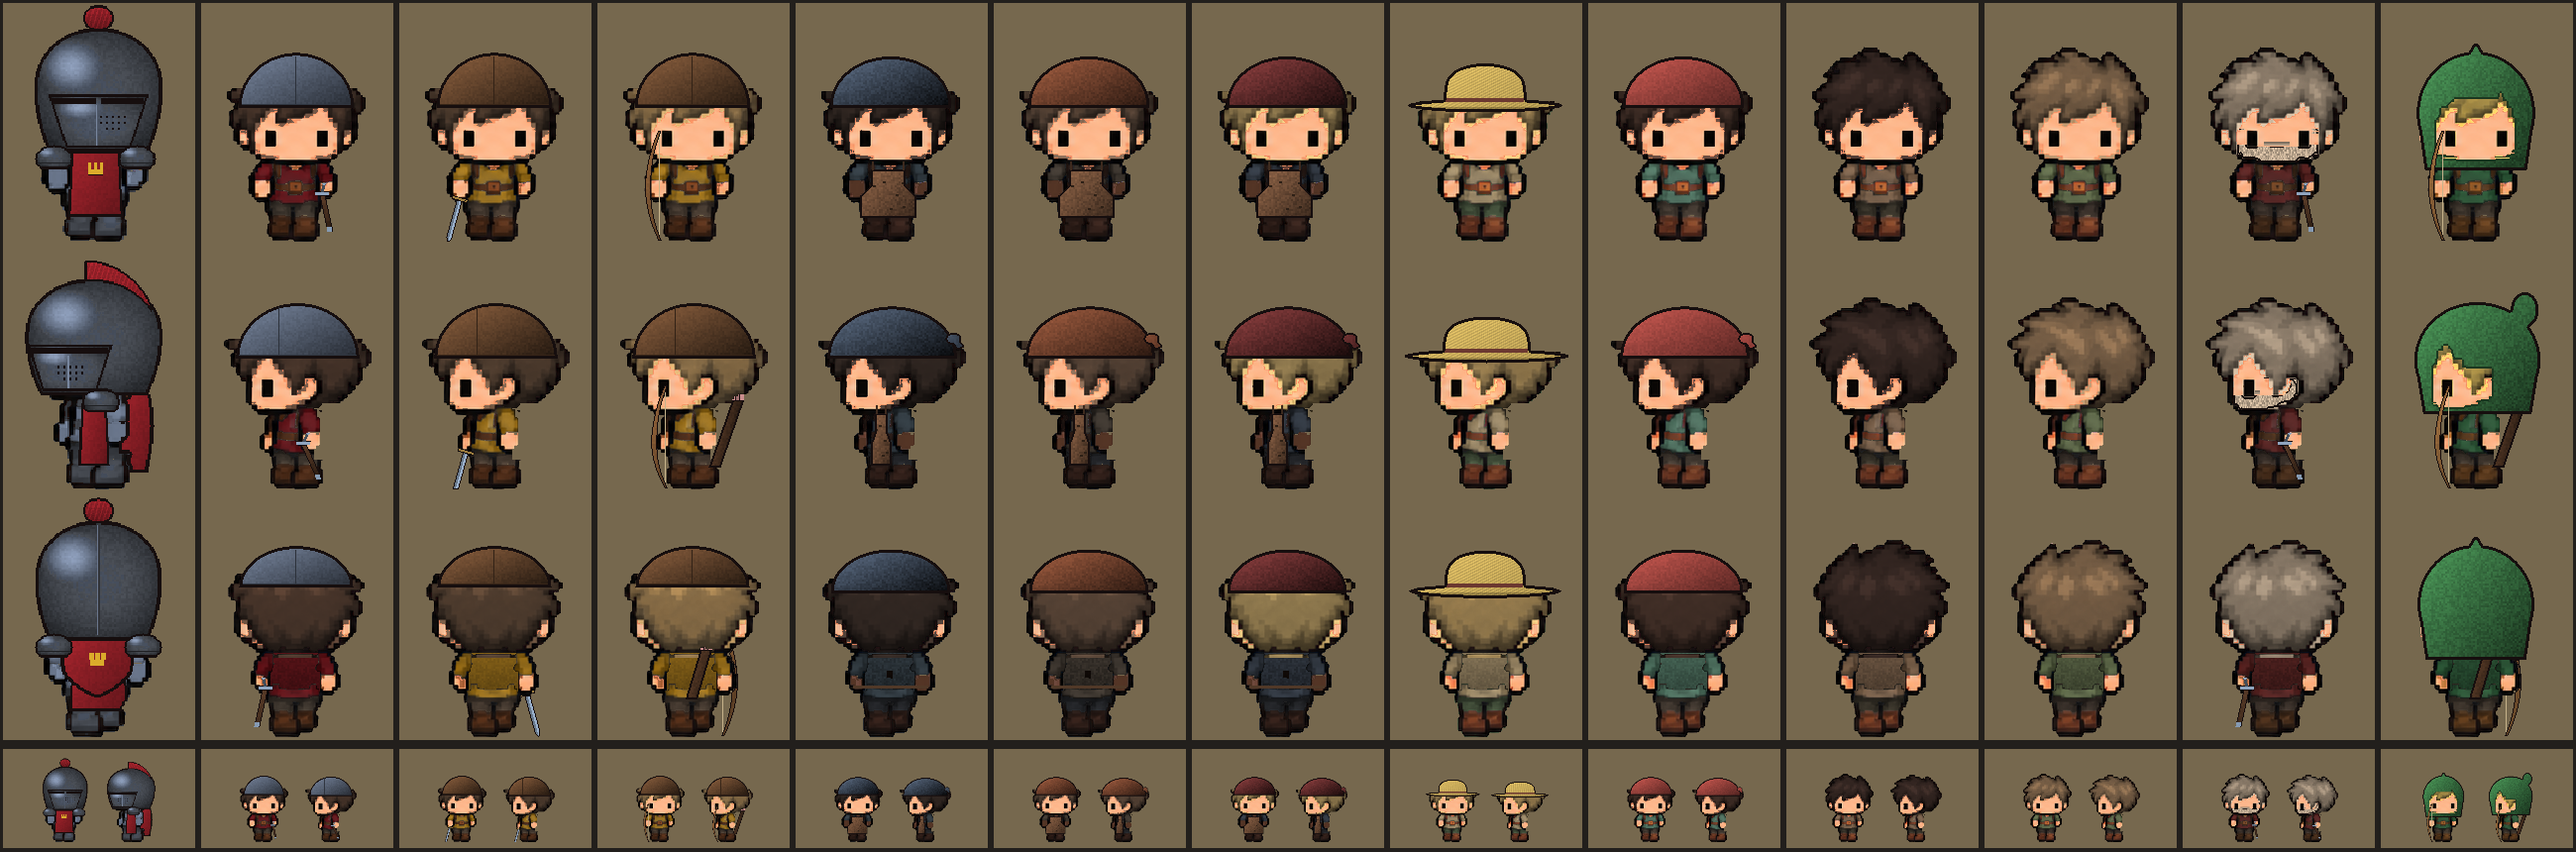
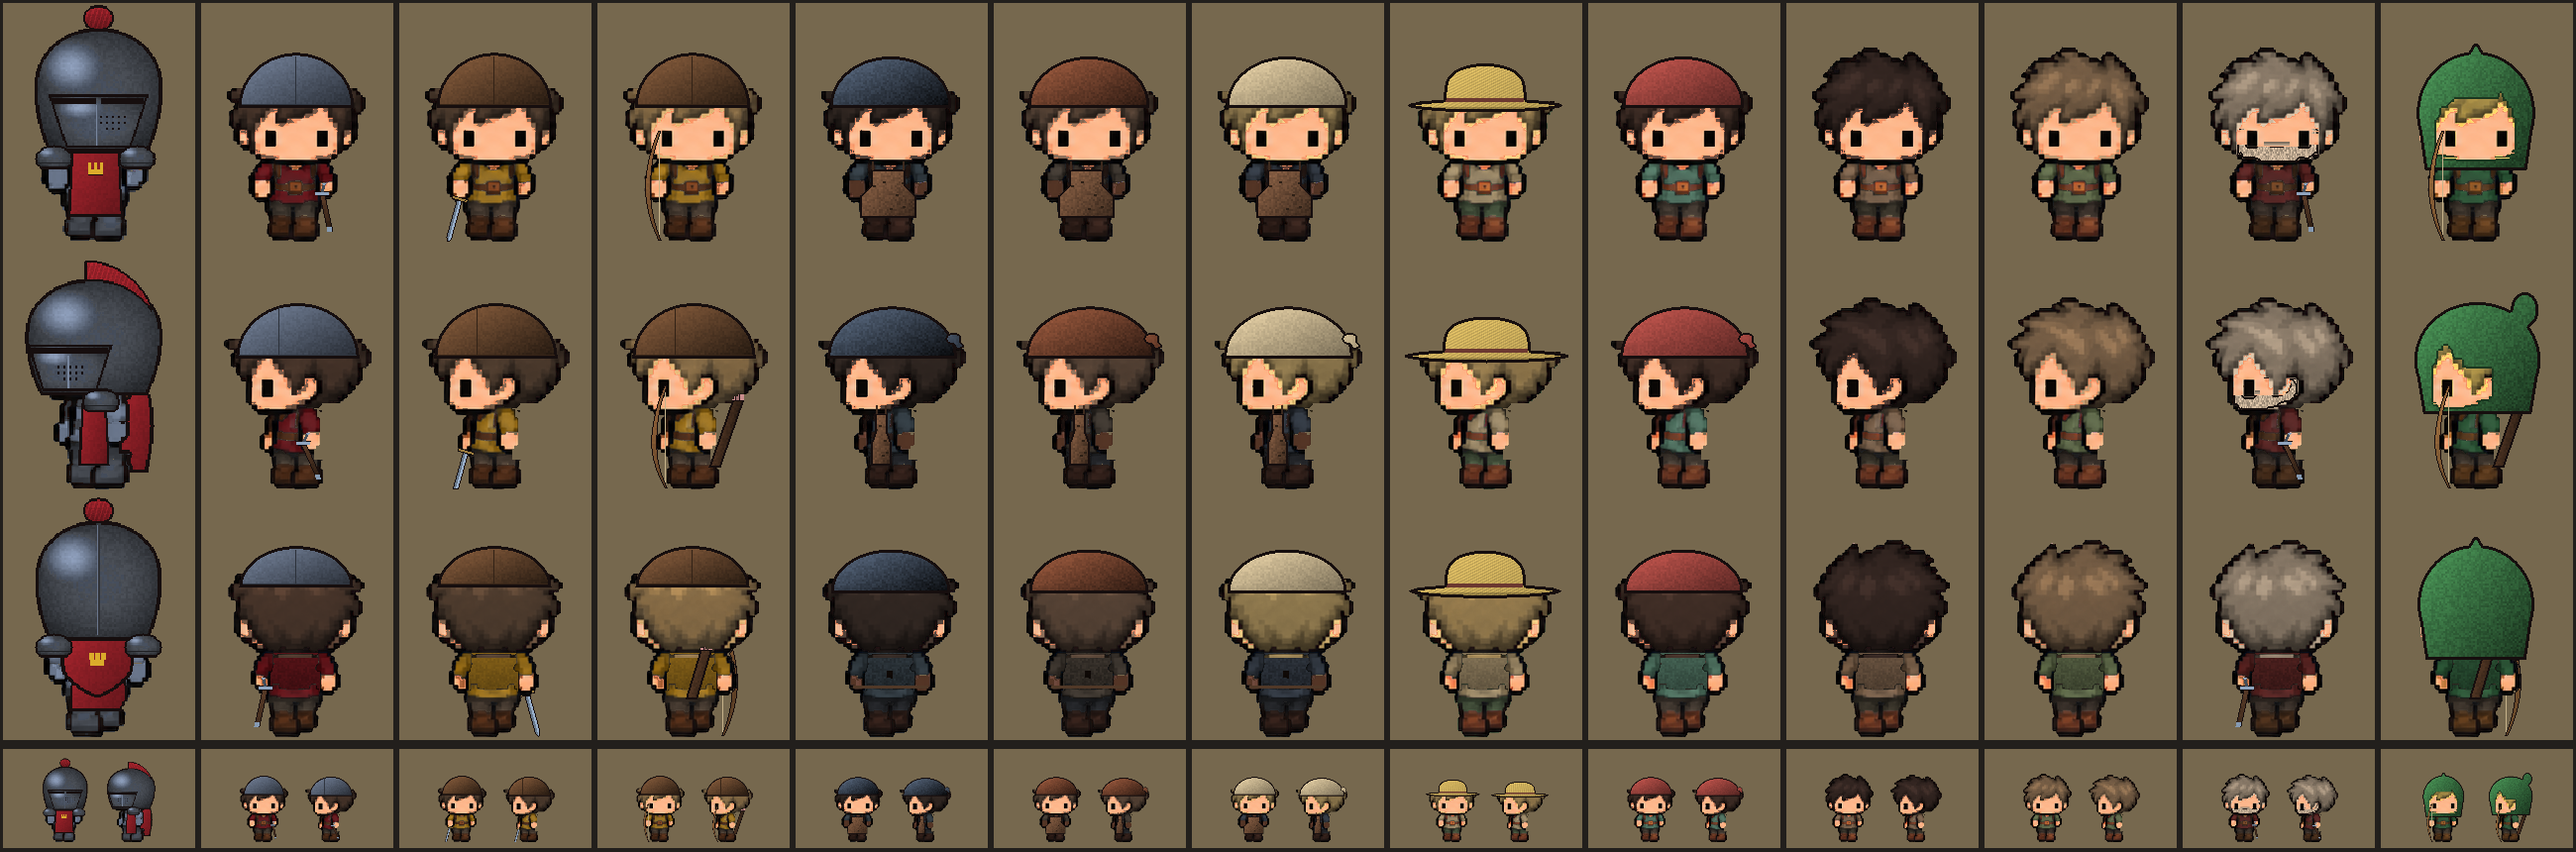
L3-L7: each type checked where the demo shows it; Sena's scarf told from Tom's
L1's tool dresses every type at once, so what was left of L3 to L7 was
their checks: frames of each type in play, on one page
(docs/frames/cast/in_game.png) - the king's guards at the gate, the
quest's guards at a furnace, the workers outside the works, Sena in the
quarter, Bram and Wren at the bow lesson and the hail.

One change came out of looking: at the game's size Tom's rust scarf and
Sena's dark red one read as one colour, and the player is sent from one to
the other. worker_c's scarf is pale linen now; rebuilding changed that
sheet and no other.

Fast suite green on both worlds (655 tests, 0 failed).

diff --git a/docs/DEMO_TASKS.md b/docs/DEMO_TASKS.md
@@ -2370,6 +2370,17 @@ Frames in Brindle and the quarter.
 Est. 3 h. Bram older and plainer, Wren the hunter — a hood and a bow. Frames of the hail
 and of each lesson.
 
+> **L3–L7 built together, 2026-09-30.** L1's tool dresses every type at once, so what
+> was left of each task was its check: frames of each type where the demo shows it,
+> gathered on one page, `docs/frames/cast/in_game.png` — the king's guards at the gate
+> (three in blackened plate round the player, the gatekeeper in the works' ochre), the
+> quest's guards at a furnace (a sword and a bow, told apart before either acts), the
+> workers outside the works, Sena in the quarter, Bram and Wren at the bow lesson and at
+> the hail. **One change came out of looking:** at the game's size Tom's rust scarf and
+> Sena's dark red one were the same colour, and the player is sent from one to the other;
+> Sena's (`worker_c`) is pale linen now. The tool is deterministic — rebuilding changed
+> that one sheet and no other.
+
 ### L8 · Photographs, a review, the letter
 
 Est. 3 h. The opening's frames and the works' in both languages; the review sub-agent;
